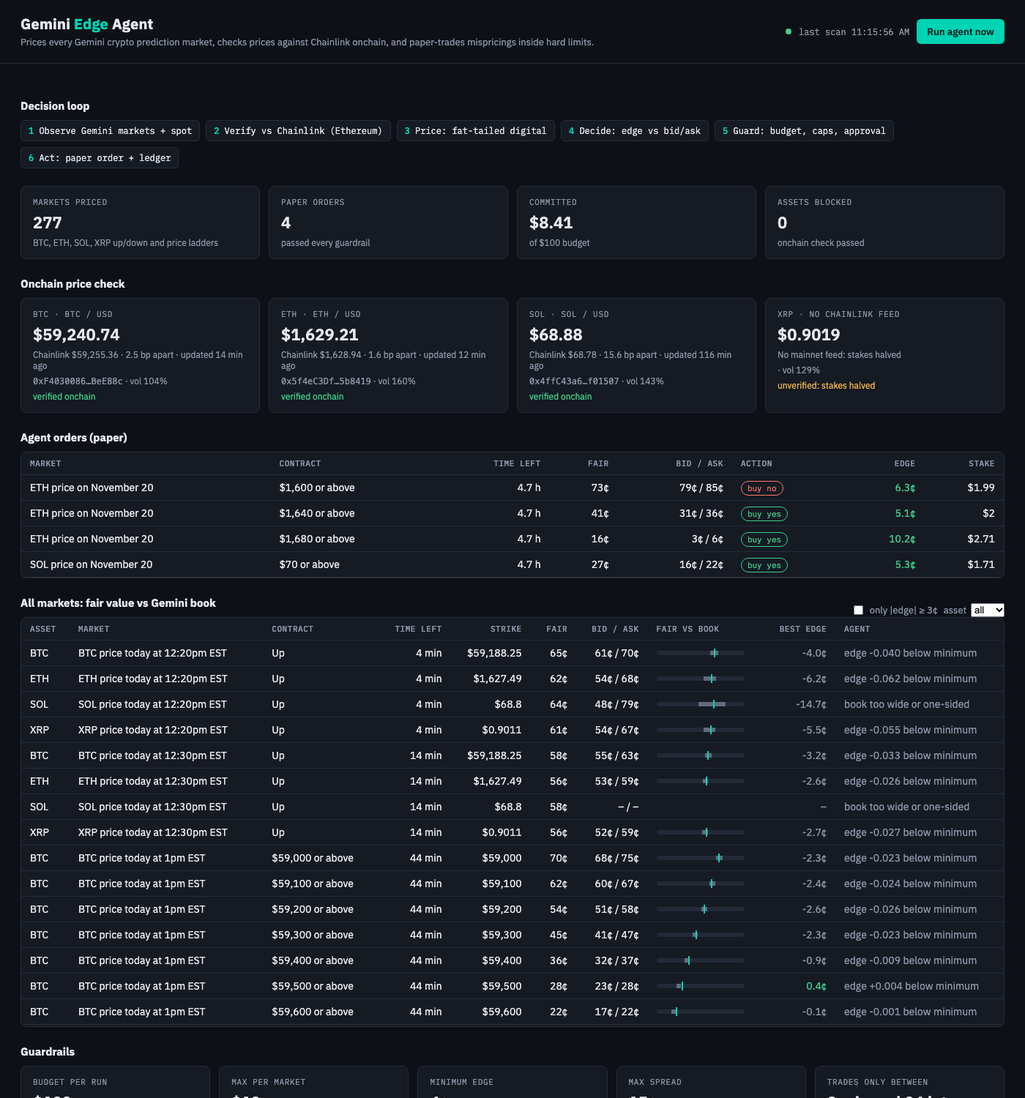
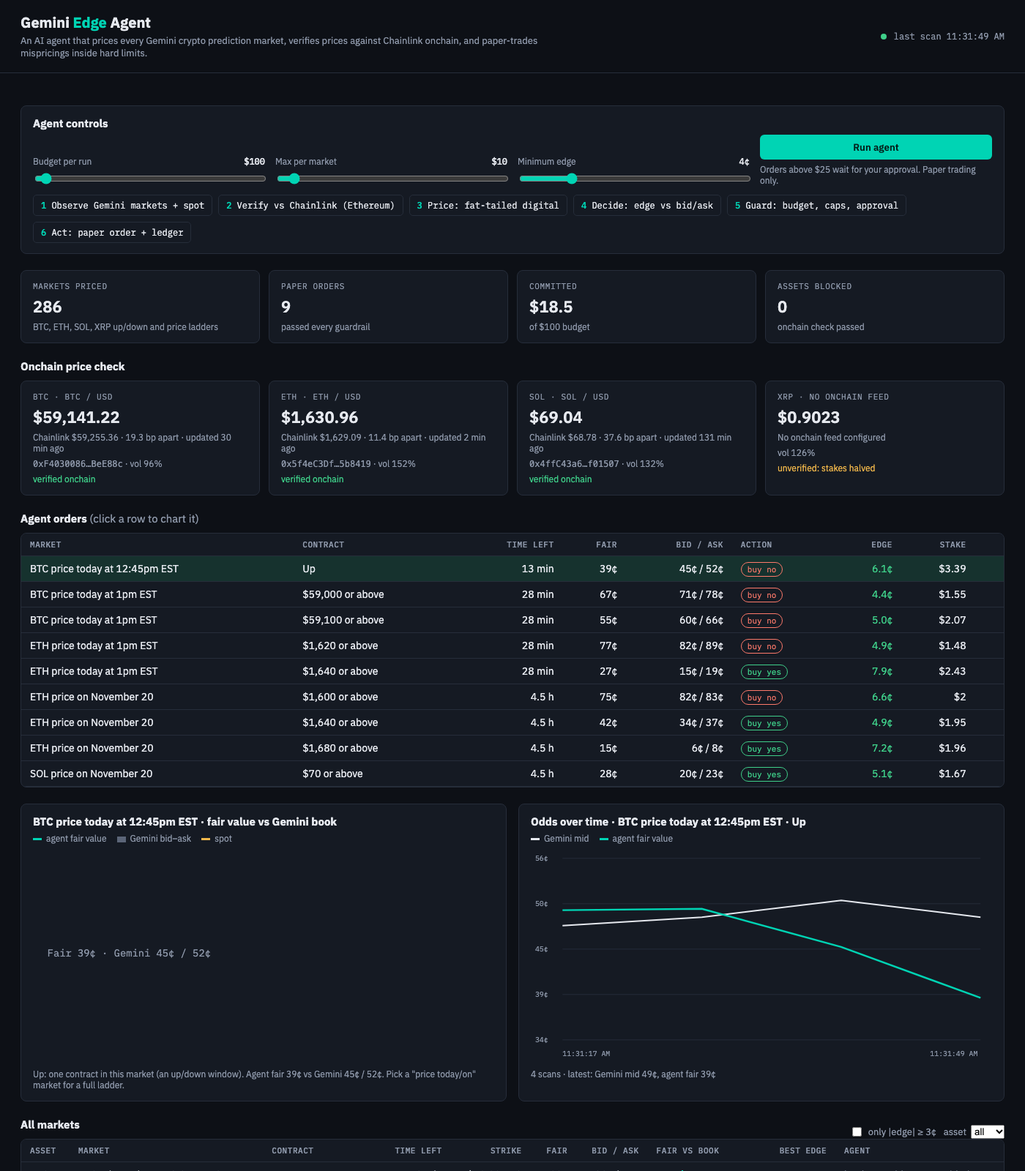
Interactive dashboard: agent controls, human approval button, ladder chart, odds-over-time chart

diff --git a/web/index.html b/web/index.html
@@ -6,17 +6,21 @@
 <title>Gemini Edge Agent</title>
 <link rel="stylesheet" href="https://fonts.googleapis.com/css2?family=IBM+Plex+Mono:wght@400;500&family=IBM+Plex+Sans:wght@400;500;600;700&display=swap">
 <style>
-:root{--bg:#0d1016;--panel:#151a23;--line:#262d3a;--fg:#e6e9ef;--muted:#8e98aa;--accent:#00d4b4;--buy:#3fd08a;--sell:#ff7a6b;--warn:#f2b84b;--mono:"IBM Plex Mono",ui-monospace,Menlo,monospace;--sans:"IBM Plex Sans",system-ui,sans-serif}
+:root{--bg:#0d1016;--panel:#151a23;--panel2:#1b2130;--line:#262d3a;--fg:#e6e9ef;--muted:#8e98aa;--accent:#00d4b4;--buy:#3fd08a;--sell:#ff7a6b;--warn:#f2b84b;--mono:"IBM Plex Mono",ui-monospace,Menlo,monospace;--sans:"IBM Plex Sans",system-ui,sans-serif}
 *{box-sizing:border-box}body{margin:0;background:var(--bg);color:var(--fg);font-family:var(--sans);font-size:14px}
-header{display:flex;flex-wrap:wrap;gap:16px;align-items:center;justify-content:space-between;padding:20px 28px;border-bottom:1px solid var(--line)}
-h1{margin:0;font-size:20px;letter-spacing:.2px}h1 span{color:var(--accent)}
-.sub{color:var(--muted);font-size:13px;margin-top:4px}
+header{display:flex;flex-wrap:wrap;gap:16px;align-items:center;justify-content:space-between;padding:18px 28px;border-bottom:1px solid var(--line)}
+h1{margin:0;font-size:20px}h1 span{color:var(--accent)}
+.sub{color:var(--muted);font-size:13px;margin-top:4px;max-width:760px}
 .status{font-family:var(--mono);font-size:12px;color:var(--muted);display:flex;gap:10px;align-items:center}
 .dot{width:8px;height:8px;border-radius:50%;background:var(--warn)}.dot.ok{background:var(--buy)}.dot.bad{background:var(--sell)}
 button{background:var(--accent);color:#04211c;border:0;border-radius:6px;padding:8px 14px;font-weight:600;cursor:pointer;font-family:var(--sans)}
-button:focus-visible{outline:2px solid var(--fg);outline-offset:2px}
-main{padding:24px 28px;display:flex;flex-direction:column;gap:24px;max-width:1400px;margin:0 auto}
+button.ghost{background:transparent;color:var(--fg);border:1px solid var(--line)}
+button.approve{background:var(--warn);color:#2a1c00;padding:4px 10px;font-size:12px}
+button:focus-visible,input:focus-visible,select:focus-visible{outline:2px solid var(--fg);outline-offset:2px}
+main{padding:22px 28px;display:flex;flex-direction:column;gap:22px;max-width:1400px;margin:0 auto}
 .grid{display:grid;grid-template-columns:repeat(auto-fit,minmax(220px,1fr));gap:12px}
+.two{display:grid;grid-template-columns:minmax(0,1fr) minmax(0,1fr);gap:16px}
+@media (max-width:1000px){.two{grid-template-columns:1fr}}
 .card{background:var(--panel);border:1px solid var(--line);border-radius:8px;padding:14px 16px;display:flex;flex-direction:column;gap:6px;min-width:0}
 .k{font-family:var(--mono);font-size:11px;letter-spacing:.06em;text-transform:uppercase;color:var(--muted)}
 .v{font-size:22px;font-weight:600;font-variant-numeric:tabular-nums}
@@ -25,19 +29,26 @@ h2{font-size:15px;margin:0 0 10px}
 .loop{display:flex;flex-wrap:wrap;gap:8px;font-family:var(--mono);font-size:12px}
 .loop span{background:var(--panel);border:1px solid var(--line);padding:6px 10px;border-radius:5px}
 .loop b{color:var(--accent);font-weight:500}
+.controls{display:grid;grid-template-columns:repeat(auto-fit,minmax(230px,1fr));gap:14px;align-items:end}
+.ctl{display:flex;flex-direction:column;gap:6px}
+.ctl label{font-size:12px;color:var(--muted);display:flex;justify-content:space-between}
+.ctl label b{color:var(--fg);font-family:var(--mono);font-weight:500}
+input[type=range]{width:100%;accent-color:var(--accent)}
 .scroll{overflow-x:auto;background:var(--panel);border:1px solid var(--line);border-radius:8px}
 table{border-collapse:collapse;width:100%;font-variant-numeric:tabular-nums}
 th,td{padding:8px 12px;border-bottom:1px solid var(--line);text-align:left;white-space:nowrap}
 th{font-family:var(--mono);font-size:11px;color:var(--muted);font-weight:500;text-transform:uppercase;letter-spacing:.05em;position:sticky;top:0;background:var(--panel)}
 td.r,th.r{text-align:right}
+tbody tr{cursor:pointer}tbody tr:hover{background:var(--panel2)}tr.sel{background:#16322e}
 .pill{font-family:var(--mono);font-size:11px;padding:2px 8px;border-radius:999px;border:1px solid var(--line)}
-.buy_yes{color:var(--buy);border-color:var(--buy)}.buy_no{color:var(--sell);border-color:var(--sell)}
+.buy_yes{color:var(--buy);border-color:var(--buy)}.buy_no{color:var(--sell);border-color:var(--sell)}.pending_approval{color:var(--warn);border-color:var(--warn)}
 .muted{color:var(--muted)}.pos{color:var(--buy)}.neg{color:var(--sell)}
 .bar{position:relative;height:6px;width:120px;background:#222937;border-radius:3px}
-.bar i{position:absolute;top:-3px;width:2px;height:12px}
-.bar .f{background:var(--accent)}.bar .bk{background:var(--muted);opacity:.6;height:6px;top:0}
-.err{background:#2a1515;border:1px solid var(--sell);color:var(--fg);padding:12px 14px;border-radius:8px}
-.filters{display:flex;gap:8px;flex-wrap:wrap}.filters label{font-size:13px;color:var(--muted);display:flex;gap:6px;align-items:center}
+.bar i{position:absolute;top:-3px;width:2px;height:12px}.bar .f{background:var(--accent)}.bar .bk{background:var(--muted);opacity:.6;height:6px;top:0}
+.err{background:#2a1515;border:1px solid var(--sell);padding:12px 14px;border-radius:8px}
+.filters{display:flex;gap:10px;flex-wrap:wrap;align-items:center}.filters label{font-size:13px;color:var(--muted);display:flex;gap:6px;align-items:center}
+svg text{fill:var(--muted);font-family:var(--mono);font-size:10px}
+.legend{display:flex;gap:14px;font-size:12px;color:var(--muted);flex-wrap:wrap}.legend i{display:inline-block;width:12px;height:3px;margin-right:6px;vertical-align:middle}
 footer{color:var(--muted);font-size:12px;padding:0 28px 28px;max-width:1400px;margin:0 auto}
 @media (max-width:640px){header,main,footer{padding-left:16px;padding-right:16px}}
 </style>
@@ -46,83 +57,159 @@ footer{color:var(--muted);font-size:12px;padding:0 28px 28px;max-width:1400px;ma
 <header>
   <div>
     <h1>Gemini <span>Edge</span> Agent</h1>
-    <div class="sub">Prices every Gemini crypto prediction market, checks prices against Chainlink onchain, and paper-trades mispricings inside hard limits.</div>
+    <div class="sub">An AI agent that prices every Gemini crypto prediction market, verifies prices against Chainlink onchain, and paper-trades mispricings inside hard limits.</div>
   </div>
-  <div class="status"><span id="dot" class="dot"></span><span id="stat">scanning…</span><button id="run">Run agent now</button></div>
+  <div class="status"><span id="dot" class="dot"></span><span id="stat">scanning…</span></div>
 </header>
 <main>
   <div id="error"></div>
-  <section>
-    <h2>Decision loop</h2>
-    <div class="loop"><span><b>1</b> Observe Gemini markets + spot</span><span><b>2</b> Verify vs Chainlink (Ethereum)</span><span><b>3</b> Price: fat-tailed digital</span><span><b>4</b> Decide: edge vs bid/ask</span><span><b>5</b> Guard: budget, caps, approval</span><span><b>6</b> Act: paper order + ledger</span></div>
+
+  <section class="card">
+    <h2 style="margin:0">Agent controls</h2>
+    <div class="controls">
+      <div class="ctl"><label for="budget">Budget per run <b id="budgetV"></b></label><input type="range" id="budget" min="50" max="2000" step="50" value="100"></div>
+      <div class="ctl"><label for="cap">Max per market <b id="capV"></b></label><input type="range" id="cap" min="5" max="100" step="5" value="10"></div>
+      <div class="ctl"><label for="minEdge">Minimum edge <b id="minEdgeV"></b></label><input type="range" id="minEdge" min="1" max="15" step="1" value="4"></div>
+      <div class="ctl"><button id="run">Run agent</button><span class="d">Orders above $25 wait for your approval. Paper trading only.</span></div>
+    </div>
+    <div class="loop" style="margin-top:6px"><span><b>1</b> Observe Gemini markets + spot</span><span><b>2</b> Verify vs Chainlink (Ethereum)</span><span><b>3</b> Price: fat-tailed digital</span><span><b>4</b> Decide: edge vs bid/ask</span><span><b>5</b> Guard: budget, caps, approval</span><span><b>6</b> Act: paper order + ledger</span></div>
   </section>
+
   <section class="grid" id="kpis"></section>
+
   <section>
     <h2>Onchain price check</h2>
     <div class="grid" id="oracle"></div>
   </section>
+
   <section>
-    <h2>Agent orders (paper)</h2>
+    <h2>Agent orders <span class="muted" style="font-weight:400">(click a row to chart it)</span></h2>
     <div class="scroll"><table id="orders"></table></div>
   </section>
+
+  <section class="two">
+    <div class="card">
+      <h2 style="margin:0" id="ladderTitle">Fair value vs Gemini book</h2>
+      <div class="legend"><span><i style="background:var(--accent)"></i>agent fair value</span><span><i style="background:#5b6578;height:8px"></i>Gemini bid–ask</span><span><i style="background:var(--warn)"></i>spot</span></div>
+      <svg id="ladder" viewBox="0 0 640 300" width="100%" role="img" aria-label="Fair value curve against Gemini bid and ask by strike"></svg>
+      <div class="d" id="ladderNote">Click any market below to chart its whole price ladder.</div>
+    </div>
+    <div class="card">
+      <h2 style="margin:0" id="histTitle">Odds over time</h2>
+      <div class="legend"><span><i style="background:var(--fg)"></i>Gemini mid</span><span><i style="background:var(--accent)"></i>agent fair value</span></div>
+      <svg id="hist" viewBox="0 0 640 300" width="100%" role="img" aria-label="Gemini mid and agent fair value over time"></svg>
+      <div class="d" id="histNote">One point per scan; the page rescans every 15 seconds.</div>
+    </div>
+  </section>
+
   <section>
     <div style="display:flex;justify-content:space-between;align-items:end;gap:12px;flex-wrap:wrap">
-      <h2>All markets: fair value vs Gemini book</h2>
+      <h2>All markets</h2>
       <div class="filters">
         <label><input type="checkbox" id="onlyEdge"> only |edge| ≥ 3¢</label>
         <label>asset <select id="asset"><option value="">all</option><option>BTC</option><option>ETH</option><option>SOL</option><option>XRP</option></select></label>
       </div>
     </div>
-    <div class="scroll" style="max-height:560px"><table id="markets"></table></div>
+    <div class="scroll" style="max-height:520px"><table id="markets"></table></div>
   </section>
+
   <section>
     <h2>Guardrails</h2>
     <div class="grid" id="guards"></div>
   </section>
 </main>
-<footer>Data: Gemini Prediction Markets API, Gemini spot candles, Chainlink price feeds read from Ethereum mainnet. Paper trading only; no orders are sent.</footer>
+<footer>Data: Gemini Prediction Markets API, Gemini spot candles, Chainlink price feeds read from Ethereum mainnet. Paper trading only; no orders are sent to Gemini.</footer>
 <script>
 const $=id=>document.getElementById(id);
 const c=x=>x==null?'–':(100*x).toFixed(0)+'¢';
-const tl=m=>m<90?m.toFixed(0)+' min':m<2880?(m/60).toFixed(1)+' h':(m/1440).toFixed(1)+' d';
 const usd=x=>x==null?'–':'$'+Number(x).toLocaleString(undefined,{maximumFractionDigits:x<10?4:2});
-let last=null;
+const tl=m=>m<90?m.toFixed(0)+' min':m<2880?(m/60).toFixed(1)+' h':(m/1440).toFixed(1)+' d';
+const act=a=>a.replace('_',' ').replace('pending approval','needs approval');
+let last=null, selected=null;
+function params(){return `budget=${$('budget').value}&cap=${$('cap').value}&min_edge=${$('minEdge').value/100}`}
+function syncLabels(){$('budgetV').textContent='$'+$('budget').value;$('capV').textContent='$'+$('cap').value;$('minEdgeV').textContent=$('minEdge').value+'¢'}
 function bar(fair,bid,ask){if(bid==null||ask==null)return'';return `<div class="bar"><i class="bk" style="left:${bid*100}%;width:${Math.max(2,(ask-bid)*120)}px"></i><i class="f" style="left:${fair*100}%"></i></div>`}
 function render(d){
   $('error').innerHTML='';
   if(!d.ok){$('error').innerHTML=`<div class="err">The scan failed: ${d.error}. The page retries automatically.</div>`;$('dot').className='dot bad';$('stat').textContent='error';return}
   last=d;
   const orders=d.decisions.filter(x=>x.action!=='hold');
+  const filled=orders.filter(x=>x.action.startsWith('buy'));
+  const pending=orders.filter(x=>x.action==='pending_approval');
   const blocked=Object.keys(d.blocked||{});
   $('dot').className='dot '+(d.halted?'bad':'ok');
   $('stat').textContent='last scan '+new Date(d.started_at).toLocaleTimeString();
   $('kpis').innerHTML=[
     ['Markets priced',d.decisions.length,'BTC, ETH, SOL, XRP up/down and price ladders'],
-    ['Paper orders',orders.length,'passed every guardrail'],
+    ['Paper orders',filled.length,pending.length?`${pending.length} waiting for your approval`:'passed every guardrail'],
     ['Committed',usd(d.committed_usd),'of '+usd(d.guardrails.budget_usd)+' budget'],
     ['Assets blocked',blocked.length,blocked.length?blocked.join(', '):'onchain check passed'],
   ].map(([k,v,s])=>`<div class="card"><span class="k">${k}</span><span class="v">${v}</span><span class="d">${s}</span></div>`).join('');
-  $('oracle').innerHTML=Object.entries(d.oracle).map(([a,o])=>`<div class="card"><span class="k">${a} · ${o.description||'no Chainlink feed'}</span>
+  $('oracle').innerHTML=Object.entries(d.oracle).map(([a,o])=>`<div class="card"><span class="k">${a} · ${o.description||'no onchain feed'}</span>
     <span class="v">${usd(o.gemini_spot)}</span>
-    <span class="d">${o.chainlink?`Chainlink ${usd(o.chainlink)} · ${o.divergence_bp} bp apart · updated ${Math.round(o.age_s/60)} min ago`:'No mainnet feed: stakes halved'}</span>
-    <span class="d">${o.feed?`<code>${o.feed.slice(0,10)}…${o.feed.slice(-6)}</code>`:''} · ${d.vol_annualized[a]?('vol '+(d.vol_annualized[a]*100).toFixed(0)+'%'):''}</span>
+    <span class="d">${o.chainlink?`Chainlink ${usd(o.chainlink)} · ${o.divergence_bp} bp apart · updated ${Math.round(o.age_s/60)} min ago`:'No onchain feed configured'}</span>
+    <span class="d">${o.feed?`<code>${o.feed.slice(0,10)}…${o.feed.slice(-6)}</code> · `:''}${d.vol_annualized[a]?('vol '+(d.vol_annualized[a]*100).toFixed(0)+'%'):''}</span>
     ${d.blocked&&d.blocked[a]?`<span class="d neg">blocked: ${d.blocked[a]}</span>`:(o.chainlink?'<span class="d pos">verified onchain</span>':'<span class="d" style="color:var(--warn)">unverified: stakes halved</span>')}</div>`).join('');
-  const oh=`<tr><th>Market</th><th>Contract</th><th class="r">Time left</th><th class="r">Fair</th><th class="r">Bid / Ask</th><th>Action</th><th class="r">Edge</th><th class="r">Stake</th></tr>`;
-  $('orders').innerHTML=oh+(orders.length?orders.map(x=>`<tr><td>${x.title}</td><td>${x.label}</td><td class="r">${tl(x.minutes_left)}</td><td class="r">${c(x.fair)}</td><td class="r">${c(x.bid)} / ${c(x.ask)}</td><td><span class="pill ${x.action}">${x.action.replace('_',' ')}</span></td><td class="r pos">${(100*x.edge).toFixed(1)}¢</td><td class="r">${usd(x.size_usd)}</td></tr>`).join(''):'<tr><td colspan="8" class="muted">No market passed every guardrail on this scan.</td></tr>');
+  const oh=`<thead><tr><th>Market</th><th>Contract</th><th class="r">Time left</th><th class="r">Fair</th><th class="r">Bid / Ask</th><th>Action</th><th class="r">Edge</th><th class="r">Stake</th><th></th></tr></thead>`;
+  $('orders').innerHTML=oh+'<tbody>'+(orders.length?orders.map(x=>`<tr data-sym="${x.symbol}" class="${x.symbol===selected?'sel':''}"><td>${x.title}</td><td>${x.label}</td><td class="r">${tl(x.minutes_left)}</td><td class="r">${c(x.fair)}</td><td class="r">${c(x.bid)} / ${c(x.ask)}</td><td><span class="pill ${x.action}">${act(x.action)}${x.side?' ('+act(x.side)+')':''}</span></td><td class="r pos">${(100*x.edge).toFixed(1)}¢</td><td class="r">${usd(x.size_usd)}</td><td>${x.action==='pending_approval'?`<button class="approve" data-approve="${x.symbol}">Approve</button>`:''}</td></tr>`).join(''):'<tr><td colspan="9" class="muted">No market passed every guardrail on this scan. Try a lower minimum edge.</td></tr>')+'</tbody>';
   drawMarkets();
+  if(!selected&&orders.length)selected=orders[0].symbol;
+  if(!selected&&d.decisions.length)selected=d.decisions[0].symbol;
+  drawCharts();
 }
 function drawMarkets(){
   if(!last)return;const a=$('asset').value,only=$('onlyEdge').checked;
   const rows=last.decisions.filter(x=>(!a||x.asset===a)).map(x=>{const e=x.bid!=null&&x.ask!=null?Math.max(x.fair-x.ask,x.bid-x.fair):null;return{...x,e}}).filter(x=>!only||(x.e!=null&&Math.abs(x.e)>=0.03));
-  $('markets').innerHTML=`<tr><th>Asset</th><th>Market</th><th>Contract</th><th class="r">Time left</th><th class="r">Strike</th><th class="r">Fair</th><th class="r">Bid / Ask</th><th>Fair vs book</th><th class="r">Best edge</th><th>Agent</th></tr>`+
-   rows.map(x=>`<tr><td>${x.asset}</td><td>${x.title}</td><td>${x.label}</td><td class="r">${tl(x.minutes_left)}</td><td class="r">${x.strike==null?'at start':usd(x.strike)}</td><td class="r">${c(x.fair)}</td><td class="r">${c(x.bid)} / ${c(x.ask)}</td><td>${bar(x.fair,x.bid,x.ask)}</td><td class="r ${x.e>0?'pos':'muted'}">${x.e==null?'–':(100*x.e).toFixed(1)+'¢'}</td><td class="muted">${x.action!=='hold'?`<span class="pill ${x.action}">${x.action.replace('_',' ')}</span>`:x.reason}</td></tr>`).join('');
+  $('markets').innerHTML=`<thead><tr><th>Asset</th><th>Market</th><th>Contract</th><th class="r">Time left</th><th class="r">Strike</th><th class="r">Fair</th><th class="r">Bid / Ask</th><th>Fair vs book</th><th class="r">Best edge</th><th>Agent</th></tr></thead><tbody>`+
+   rows.map(x=>`<tr data-sym="${x.symbol}" class="${x.symbol===selected?'sel':''}"><td>${x.asset}</td><td>${x.title}</td><td>${x.label}</td><td class="r">${tl(x.minutes_left)}</td><td class="r">${x.strike==null?'at start':usd(x.strike)}</td><td class="r">${c(x.fair)}</td><td class="r">${c(x.bid)} / ${c(x.ask)}</td><td>${bar(x.fair,x.bid,x.ask)}</td><td class="r ${x.e>0?'pos':'muted'}">${x.e==null?'–':(100*x.e).toFixed(1)+'¢'}</td><td class="muted">${x.action!=='hold'?`<span class="pill ${x.action}">${act(x.action)}</span>`:x.reason}</td></tr>`).join('')+'</tbody>';
   const g=last.guardrails;
-  $('guards').innerHTML=[['Budget per run',usd(g.budget_usd)],['Max per market',usd(g.max_per_market_usd)],['Minimum edge',(100*g.min_edge).toFixed(0)+'¢'],['Max spread',(100*g.max_spread).toFixed(0)+'¢'],['Trades only between',g.min_minutes_to_expiry+' min and '+(g.max_minutes_to_expiry/60)+' h to expiry'],['Oracle divergence limit',g.max_oracle_divergence_bp+' bp'],['Human approval above',usd(g.approval_above_usd)],['Mode',g.dry_run?'paper only':'live']]
+  $('guards').innerHTML=[['Budget per run',usd(g.budget_usd)],['Max per market',usd(g.max_per_market_usd)],['Minimum edge',(100*g.min_edge).toFixed(0)+'¢'],['Max spread',(100*g.max_spread).toFixed(0)+'¢'],['Trades only between',g.min_minutes_to_expiry+' min and '+(g.max_minutes_to_expiry/60)+' h to expiry'],['Onchain divergence limit',g.max_oracle_divergence_bp+' bp'],['Human approval above',usd(g.approval_above_usd)],['Mode',g.dry_run?'paper only':'live']]
    .map(([k,v])=>`<div class="card"><span class="k">${k}</span><span class="v">${v}</span></div>`).join('');
 }
-async function scan(){$('stat').textContent='scanning…';try{const r=await fetch('/api/scan');render(await r.json())}catch(e){render({ok:false,error:e.message})}}
+function drawLadder(){
+  const s=$('ladder');if(!last||!selected){s.innerHTML='';return}
+  const pick=last.decisions.find(x=>x.symbol===selected);if(!pick)return;
+  const pts=last.decisions.filter(x=>x.title===pick.title&&x.asset===pick.asset&&x.strike!=null).sort((a,b)=>a.strike-b.strike);
+  $('ladderTitle').textContent=pick.title+' · fair value vs Gemini book';
+  if(pts.length<2){$('ladderNote').textContent=`${pick.label}: one contract in this market (an up/down window). Agent fair ${c(pick.fair)} vs Gemini ${c(pick.bid)} / ${c(pick.ask)}. Pick a "price today/on" market for a full ladder.`;s.innerHTML='';
+    s.innerHTML=`<text x="20" y="150" style="font-size:14px">Fair ${c(pick.fair)}   ·   Gemini ${c(pick.bid)} / ${c(pick.ask)}</text>`;return}
+  const W=640,H=300,L=44,R=16,T=14,B=34,lo=pts[0].strike,hi=pts[pts.length-1].strike;
+  const x=k=>L+(k-lo)/((hi-lo)||1)*(W-L-R),y=p=>T+(1-p)*(H-T-B);
+  let g='';for(const p of [0,.25,.5,.75,1])g+=`<line x1="${L}" x2="${W-R}" y1="${y(p)}" y2="${y(p)}" stroke="#262d3a"/><text x="6" y="${y(p)+3}">${p*100}¢</text>`;
+  const step=Math.max(1,Math.ceil(pts.length/7));pts.forEach((p,i)=>{if(i%step===0)g+=`<text x="${x(p.strike)-18}" y="${H-12}">${p.strike>=1000?(p.strike/1000).toFixed(1)+'k':p.strike}</text>`});
+  pts.forEach(p=>{if(p.bid!=null&&p.ask!=null)g+=`<rect x="${x(p.strike)-4}" y="${y(p.ask)}" width="8" height="${Math.max(2,y(p.bid)-y(p.ask))}" fill="#5b6578" rx="2"/>`});
+  g+=`<polyline fill="none" stroke="var(--accent)" stroke-width="2.5" points="${pts.map(p=>x(p.strike)+','+y(p.fair)).join(' ')}"/>`;
+  pts.forEach(p=>{g+=`<circle cx="${x(p.strike)}" cy="${y(p.fair)}" r="${p.symbol===selected?5:2.5}" fill="${p.symbol===selected?'var(--fg)':'var(--accent)'}"/>`});
+  const sp=pick.spot;if(sp>=lo&&sp<=hi)g+=`<line x1="${x(sp)}" x2="${x(sp)}" y1="${T}" y2="${H-B}" stroke="var(--warn)" stroke-dasharray="4 4"/><text x="${x(sp)+4}" y="${T+10}" style="fill:var(--warn)">spot ${usd(sp)}</text>`;
+  s.innerHTML=g;
+  const mis=pts.filter(p=>p.bid!=null&&(p.fair>p.ask||p.fair<p.bid)).length;
+  $('ladderNote').textContent=`${pts.length} strikes · the curve sits outside Gemini's bid–ask on ${mis} of them · selected: ${pick.label}`;
+}
+async function drawHist(){
+  const s=$('hist');if(!selected){s.innerHTML='';return}
+  const pick=last&&last.decisions.find(x=>x.symbol===selected);
+  $('histTitle').textContent='Odds over time · '+(pick?pick.title+' · '+pick.label:selected);
+  const r=await fetch('/api/history?symbol='+encodeURIComponent(selected));const h=(await r.json()).points;
+  const W=640,H=300,L=44,R=16,T=14,B=34;
+  if(h.length<2){s.innerHTML=`<text x="20" y="150" style="font-size:13px">Collecting… ${h.length} point${h.length===1?'':'s'} so far (one per scan, every 15 s)</text>`;return}
+  const vals=h.flatMap(p=>[p.mid,p.fair]);let lo=Math.max(0,Math.min(...vals)-.05),hi=Math.min(1,Math.max(...vals)+.05);
+  const x=i=>L+i/(h.length-1)*(W-L-R),y=p=>T+(1-(p-lo)/((hi-lo)||1))*(H-T-B);
+  let g='';for(let k=0;k<=4;k++){const p=lo+(hi-lo)*k/4;g+=`<line x1="${L}" x2="${W-R}" y1="${y(p)}" y2="${y(p)}" stroke="#262d3a"/><text x="6" y="${y(p)+3}">${(p*100).toFixed(0)}¢</text>`}
+  g+=`<text x="${L}" y="${H-12}">${new Date(h[0].t).toLocaleTimeString()}</text><text x="${W-R-70}" y="${H-12}">${new Date(h[h.length-1].t).toLocaleTimeString()}</text>`;
+  g+=`<polyline fill="none" stroke="var(--fg)" stroke-width="2" points="${h.map((p,i)=>x(i)+','+y(p.mid)).join(' ')}"/>`;
+  g+=`<polyline fill="none" stroke="var(--accent)" stroke-width="2.5" points="${h.map((p,i)=>x(i)+','+y(p.fair)).join(' ')}"/>`;
+  s.innerHTML=g;$('histNote').textContent=`${h.length} scans · latest: Gemini mid ${c(h[h.length-1].mid)}, agent fair ${c(h[h.length-1].fair)}`;
+}
+function drawCharts(){drawLadder();drawHist();document.querySelectorAll('tr[data-sym]').forEach(r=>r.classList.toggle('sel',r.dataset.sym===selected))}
+async function scan(){$('stat').textContent='scanning…';try{const r=await fetch('/api/scan?'+params());render(await r.json())}catch(e){render({ok:false,error:e.message})}}
+document.addEventListener('click',async e=>{
+  const ap=e.target.closest('[data-approve]');
+  if(ap){e.stopPropagation();ap.textContent='Approving…';await fetch('/api/approve?symbol='+encodeURIComponent(ap.dataset.approve),{method:'POST'});selected=ap.dataset.approve;return scan()}
+  const row=e.target.closest('tr[data-sym]');if(row){selected=row.dataset.sym;drawCharts()}
+});
+['budget','cap','minEdge'].forEach(id=>$(id).addEventListener('input',syncLabels));
 $('run').onclick=scan;$('asset').onchange=drawMarkets;$('onlyEdge').onchange=drawMarkets;
-scan();setInterval(scan,30000);
+syncLabels();scan();setInterval(scan,15000);
 </script>
 </body>
 </html>

diff --git a/server.py b/server.py
@@ -2,8 +2,10 @@
 
     python server.py            # then open http://localhost:8000
 
-GET /           the dashboard
-GET /api/scan   runs one pass of the agent and returns its report as JSON (cached for 20 s)
+GET  /                       the dashboard
+GET  /api/scan?budget=&min_edge=&cap=   runs one pass of the agent with these limits (cached 10 s)
+GET  /api/history?symbol=    Gemini mid vs agent fair value for one contract, one point per scan
+POST /api/approve?symbol=    a human approves an order that is above the approval limit
 """
 
 from __future__ import annotations
@@ -11,28 +13,56 @@ from __future__ import annotations
 import json
 import threading
 import time
+from collections import defaultdict, deque
 from dataclasses import asdict
 from http.server import BaseHTTPRequestHandler, ThreadingHTTPServer
 from pathlib import Path
+from urllib.parse import parse_qs, urlparse
 
 from edge import agent
 
 ROOT = Path(__file__).parent
-CACHE_S = 20
+CACHE_S = 10
 _lock = threading.Lock()
-_cache: dict = {"t": 0.0, "body": b""}
+_cache: dict = {"t": 0.0, "key": None, "body": b""}
+_history: dict[str, deque] = defaultdict(lambda: deque(maxlen=240))
+_approved: set[str] = set()
 
 
-def scan_json() -> bytes:
+def _guardrails(q: dict) -> agent.Guardrails:
+    g = agent.Guardrails()
+
+    def num(name, lo, hi):
+        try:
+            return min(hi, max(lo, float(q[name][0])))
+        except (KeyError, ValueError, IndexError):
+            return None
+
+    if (v := num("budget", 10, 5000)) is not None:
+        g.budget_usd = v
+    if (v := num("min_edge", 0.01, 0.30)) is not None:
+        g.min_edge = v
+    if (v := num("cap", 1, 500)) is not None:
+        g.max_per_market_usd = v
+    return g
+
+
+def scan_json(q: dict | None = None) -> bytes:
+    q = q or {}
+    g = _guardrails(q)
+    key = (g.budget_usd, g.min_edge, g.max_per_market_usd, frozenset(_approved))
     with _lock:
-        if time.time() - _cache["t"] > CACHE_S or not _cache["body"]:
-            g = agent.Guardrails()
+        if time.time() - _cache["t"] > CACHE_S or _cache["key"] != key or not _cache["body"]:
             try:
-                rep = agent.run_once(g)
-                body = {"ok": True, "guardrails": asdict(g), **asdict(rep)}
+                rep = agent.run_once(g, approve=lambda d: d.symbol in _approved)
+                for d in rep.decisions:
+                    if d.bid is not None and d.ask is not None:
+                        _history[d.symbol].append({"t": rep.started_at, "mid": (d.bid + d.ask) / 2, "fair": d.fair,
+                                                   "bid": d.bid, "ask": d.ask})
+                body = {"ok": True, "guardrails": asdict(g), "approved": sorted(_approved), **asdict(rep)}
             except Exception as e:  # network hiccups show up in the UI instead of crashing it
                 body = {"ok": False, "error": f"{type(e).__name__}: {e}"}
-            _cache.update(t=time.time(), body=json.dumps(body, default=str).encode())
+            _cache.update(t=time.time(), key=key, body=json.dumps(body, default=str).encode())
         return _cache["body"]
 
 
@@ -45,10 +75,25 @@ class Handler(BaseHTTPRequestHandler):
         self.wfile.write(body)
 
     def do_GET(self):  # noqa: N802
-        if self.path.startswith("/api/scan"):
-            self._send(200, scan_json(), "application/json")
-        elif self.path in ("/", "/index.html"):
+        u = urlparse(self.path)
+        q = parse_qs(u.query)
+        if u.path == "/api/scan":
+            self._send(200, scan_json(q), "application/json")
+        elif u.path == "/api/history":
+            sym = q.get("symbol", [""])[0]
+            self._send(200, json.dumps({"symbol": sym, "points": list(_history.get(sym, []))}).encode(), "application/json")
+        elif u.path in ("/", "/index.html"):
             self._send(200, (ROOT / "web" / "index.html").read_bytes(), "text/html; charset=utf-8")
+        else:
+            self._send(404, b"not found", "text/plain")
+
+    def do_POST(self):  # noqa: N802
+        u = urlparse(self.path)
+        if u.path == "/api/approve":
+            sym = parse_qs(u.query).get("symbol", [""])[0]
+            if sym:
+                _approved.add(sym)
+            self._send(200, json.dumps({"approved": sorted(_approved)}).encode(), "application/json")
         else:
             self._send(404, b"not found", "text/plain")
 

diff --git a/edge/agent.py b/edge/agent.py
@@ -45,7 +45,8 @@ class Decision:
     fair: float
     bid: float | None
     ask: float | None
-    action: str = "hold"     # buy_yes, buy_no, hold
+    action: str = "hold"     # buy_yes, buy_no, pending_approval, hold
+    side: str = ""           # for pending orders: the side the agent wants
     edge: float = 0.0
     size_usd: float = 0.0
     reason: str = ""
@@ -127,6 +128,8 @@ def run_once(g: Guardrails | None = None, approve=None) -> RunReport:
                 if size < 1:
                     d.reason = "budget exhausted or stake too small"
                 elif size > g.approval_above_usd and not (approve and approve(d)):
+                    d.action, d.edge, d.size_usd = "pending_approval", round(edge, 4), round(size, 2)
+                    d.side = side
                     d.reason = "needs human approval"
                 else:
                     d.action, d.edge, d.size_usd = side, round(edge, 4), round(size, 2)
@@ -144,5 +147,5 @@ def _log(rep: RunReport, g: Guardrails) -> None:
     LEDGER.parent.mkdir(parents=True, exist_ok=True)
     with LEDGER.open("a") as f:
         for d in rep.decisions:
-            if d.action != "hold":
+            if d.action in ("buy_yes", "buy_no"):
                 f.write(json.dumps({"ts": rep.started_at, **asdict(d), "dry_run": g.dry_run}) + "\n")

diff --git a/tests/test_live.py b/tests/test_live.py
@@ -55,6 +55,6 @@ def test_live_scan_is_consistent_and_fast():
     assert rep.committed_usd <= g.budget_usd
     for d in rep.decisions:
         assert 0 <= d.fair <= 1
-        if d.action != "hold":
+        if d.action in ("buy_yes", "buy_no"):
             assert d.edge >= g.min_edge and g.min_minutes_to_expiry <= d.minutes_left <= g.max_minutes_to_expiry
             assert d.size_usd <= g.max_per_market_usd

diff --git a/README.md b/README.md
@@ -28,6 +28,14 @@ Every scan, the agent:
 5. **Guards.** It checks budget, per-market caps, minimum edge, spread, time to expiry, and human approval above a size limit.
 6. **Acts.** It writes a paper order to `output/ledger.jsonl` and shows it on the dashboard.
 
+## The dashboard
+
+- **Agent controls:** sliders for budget, max stake per market and minimum edge, then "Run agent". Decisions update live.
+- **Human approval:** orders above $25 appear as "needs approval" with an **Approve** button, and the agent places them only after you click it.
+- **Fair value vs Gemini book:** click any market to chart its whole price ladder, with the agent's fair-value curve drawn over Gemini's bid–ask at every strike, plus spot.
+- **Odds over time:** Gemini's mid and the agent's fair value for the selected contract, one point per scan (every 15 s).
+- **Onchain price check, all markets, guardrails:** every decision, including skipped markets and the reason.
+
 ## Run it
 
 ```bash
